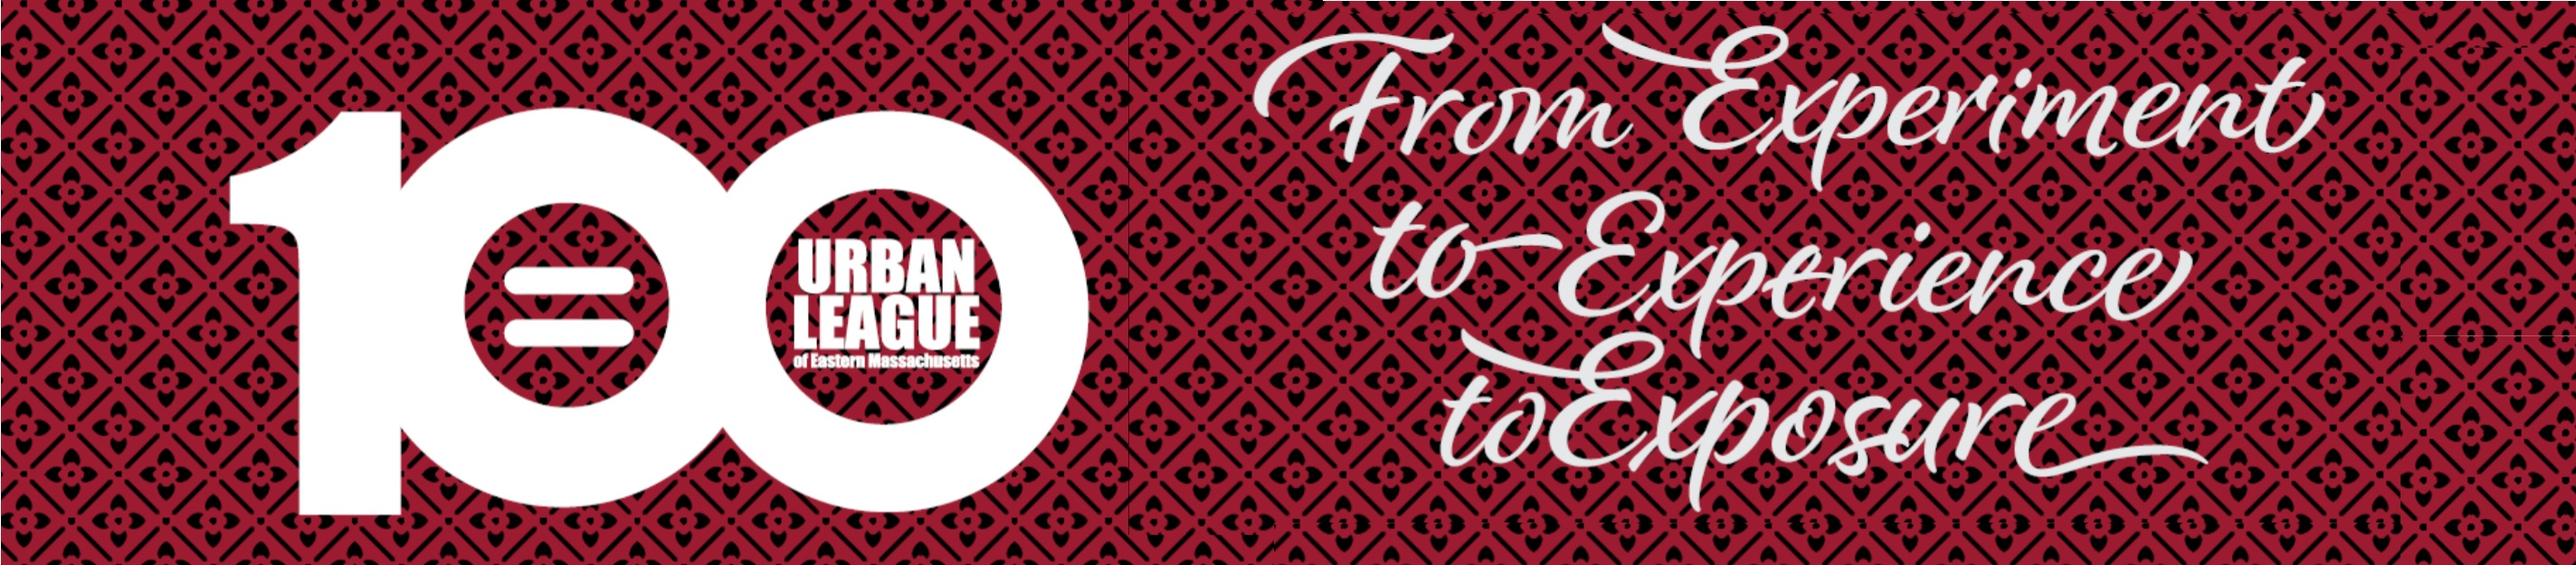
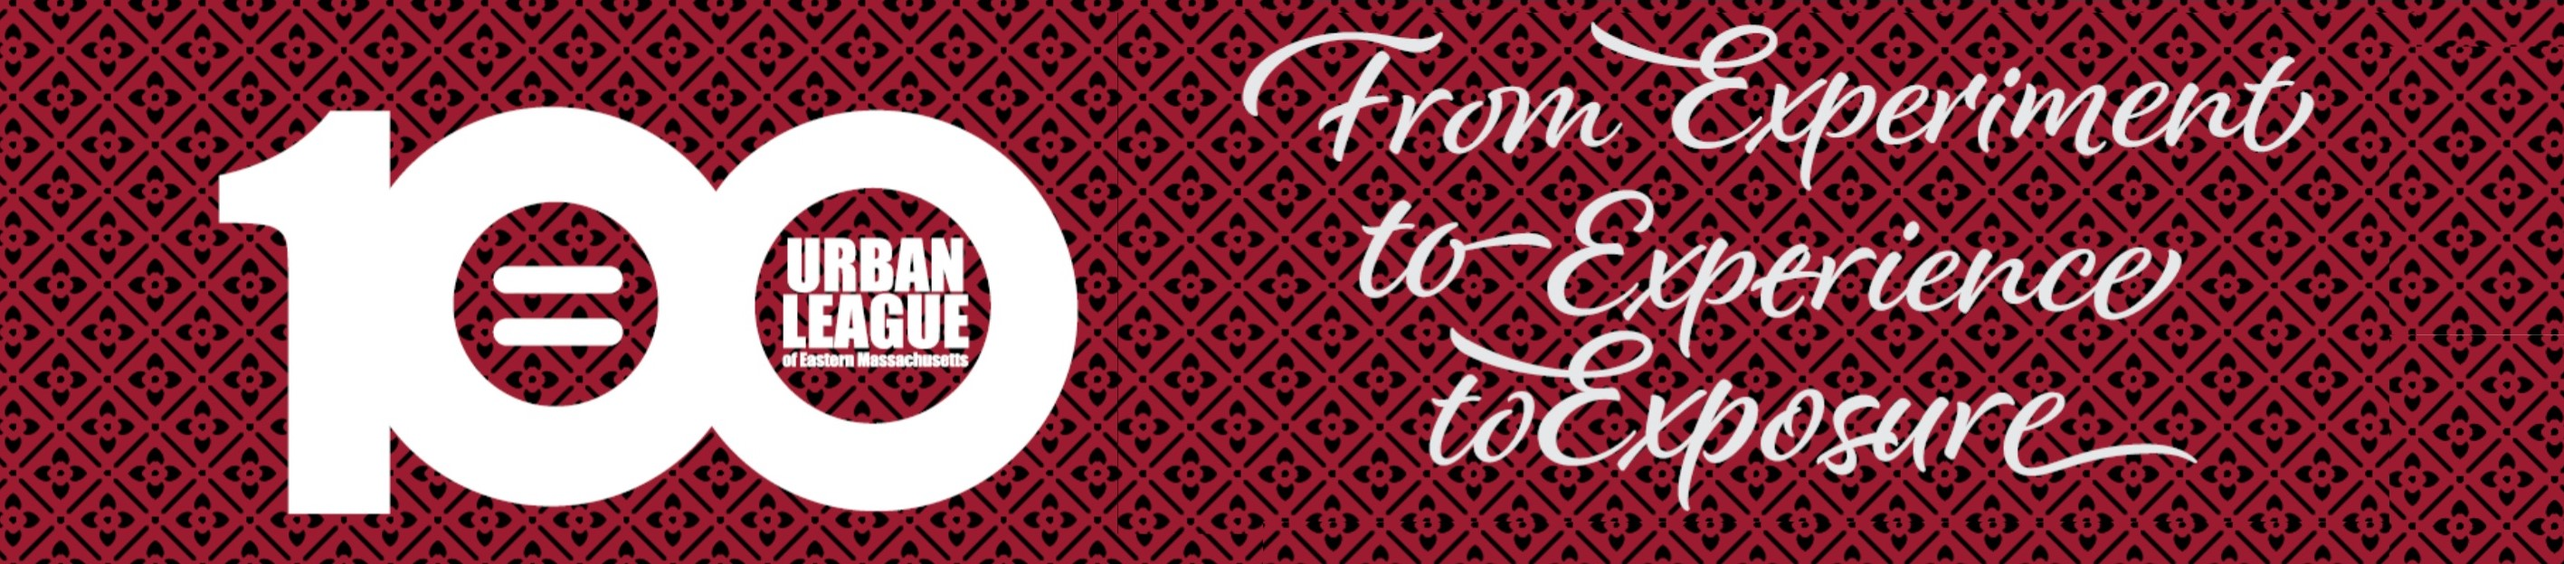
one more top slides

diff --git a/src/components/Home/TopSlides.js b/src/components/Home/TopSlides.js
@@ -4,6 +4,7 @@ import msimbo from "../../img/MSIMBOFlyer.png";
 import digiul from "../../img/DigiUL.png";
 import ulemBuilding from "../../img/ulemBuilding.JPG";
 import marathonBanner from "../../img/ULEM-MarathonBanner.png";
+import banner100 from "../../img/Banner100.jpg";
 import $ from "jquery";
 import "popper.js";
 import "bootstrap";
@@ -31,6 +32,7 @@ export default class TopSlides extends Component {
           <li data-target="#carouselExampleControls" data-slide-to="1" />
           <li data-target="#carouselExampleControls" data-slide-to="2" />
           <li data-target="#carouselExampleControls" data-slide-to="3" />
+          <li data-target="#carouselExampleControls" data-slide-to="4" />
         </ol>
         <div className="carousel-inner">
           <div className="carousel-item active">
@@ -38,11 +40,7 @@ export default class TopSlides extends Component {
               <div
                 className="top-slide"
                 style={{
-                  background: `url(${ulemBuilding}) no-repeat top center/cover`,
-
-                  backgroundPosition: "center TOP",
-                  backgroundRepeat: "no-repeat",
-                  backgroundSize: "cover"
+                  background: `url(${ulemBuilding}) no-repeat top center/cover`
                 }}
               >
                 <div className="text-center">
@@ -67,14 +65,14 @@ export default class TopSlides extends Component {
             </Link>
           </div>
           <div className="carousel-item">
-            <Link to="/program">
+            <Link to="/centennialIntro">
+              <div className="top-slide d-none d-lg-block">
+                <img src={banner100} alt="100th" width="100%" height="100%" />
+              </div>
               <div
-                className="top-slide"
+                className="top-slide d-lg-none"
                 style={{
-                  backgroundImage: `url(${digiul})`,
-                  backgroundPosition: "center TOP",
-                  backgroundRepeat: "no-repeat",
-                  backgroundSize: "cover"
+                  background: `url(${banner100}) no-repeat top center/cover`
                 }}
               />
             </Link>
@@ -84,10 +82,17 @@ export default class TopSlides extends Component {
               <div
                 className="top-slide"
                 style={{
-                  background: `url(${msimbo}) no-repeat top center/cover`,
-                  backgroundPosition: "center TOP",
-                  backgroundRepeat: "no-repeat",
-                  backgroundSize: "100% 100%"
+                  background: `url(${digiul}) no-repeat top center/cover`
+                }}
+              />
+            </Link>
+          </div>
+          <div className="carousel-item">
+            <Link to="/program">
+              <div
+                className="top-slide"
+                style={{
+                  background: `url(${msimbo}) no-repeat top center/cover`
                 }}
               />
             </Link>
@@ -97,10 +102,7 @@ export default class TopSlides extends Component {
               <div
                 className="top-slide"
                 style={{
-                  background: `url(${marathonBanner}) no-repeat top center/cover`,
-                  backgroundPosition: "center TOP",
-                  backgroundRepeat: "no-repeat",
-                  backgroundSize: "100% 100%"
+                  background: `url(${marathonBanner}) no-repeat top center/cover`
                 }}
               />
             </Link>

diff --git a/src/components/Home/Home.js b/src/components/Home/Home.js
@@ -6,8 +6,7 @@ import TopSlides from "./TopSlides";
 import EventSlides from "./EventSlides";
 import Instagram from "./Instagram";
 import Twitter from "./Twitter";
-import banner from "../../img/Banner100.jpg";
-import { Link } from "react-router-dom";
+
 export default class Home extends Component {
   state = {
     events: []
@@ -28,9 +27,6 @@ export default class Home extends Component {
     const { events } = this.state;
     return (
       <div>
-        <Link to="/centennialIntro">
-          <img src={banner} alt="100banner" className="full-width" />
-        </Link>
         <TopSlides />
         <div className="container">
           <div className="row">

diff --git a/src/app.css b/src/app.css
@@ -153,6 +153,11 @@ td {
   border-radius: 5px;
 }
 
+/* Home */
+.top-slide {
+  height: 65vh;
+}
+
 .video-background {
   background: rgba(0, 0, 0, 0.3);
   z-index: -99;
@@ -589,10 +594,6 @@ section[id]:before {
   color: #e2001a;
   font-size: 1.3em;
   font-weight: 600;
-}
-
-.top-slide {
-  height: 65vh;
 }
 
 @media (max-width: 992px) {
